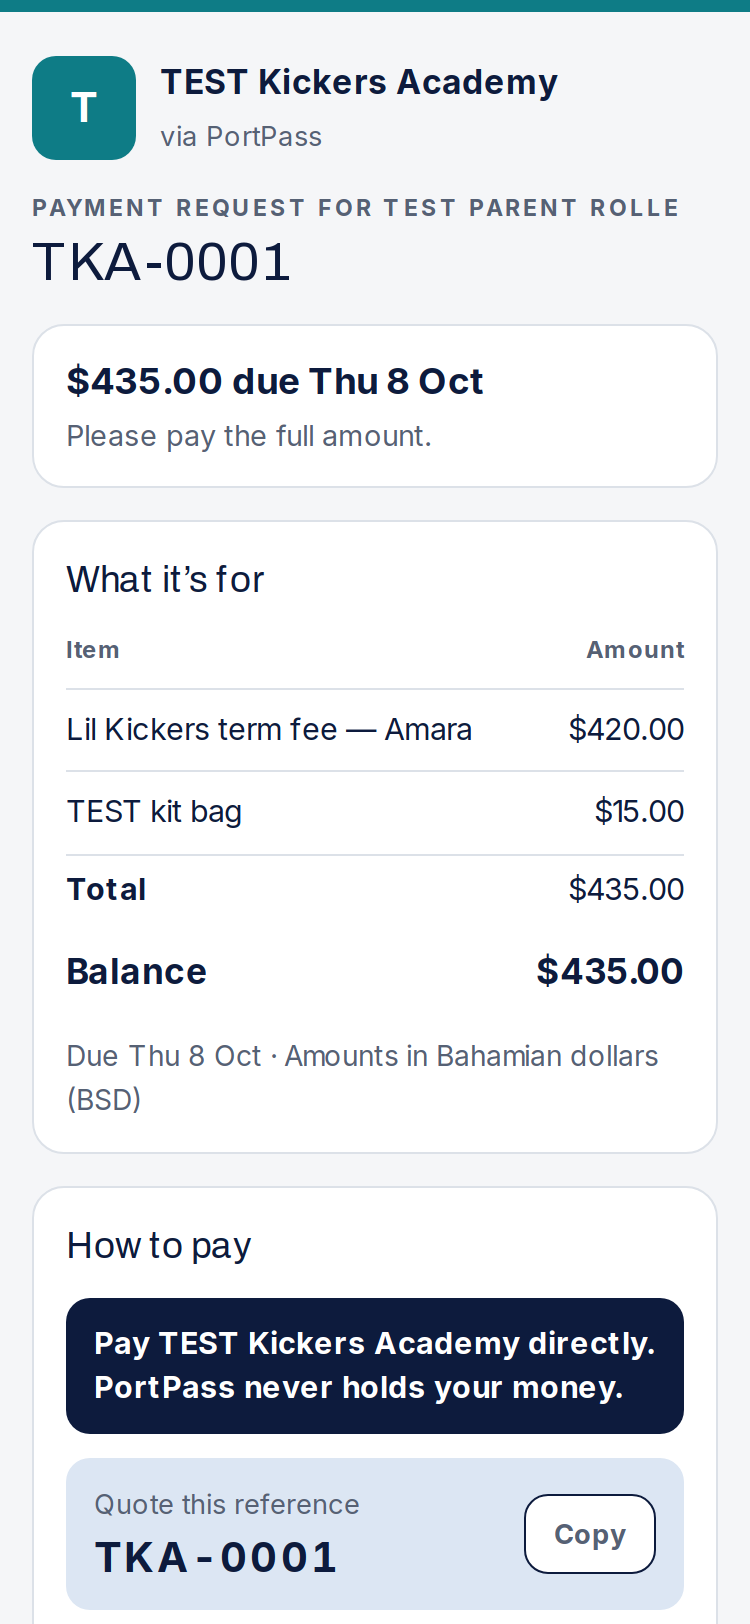
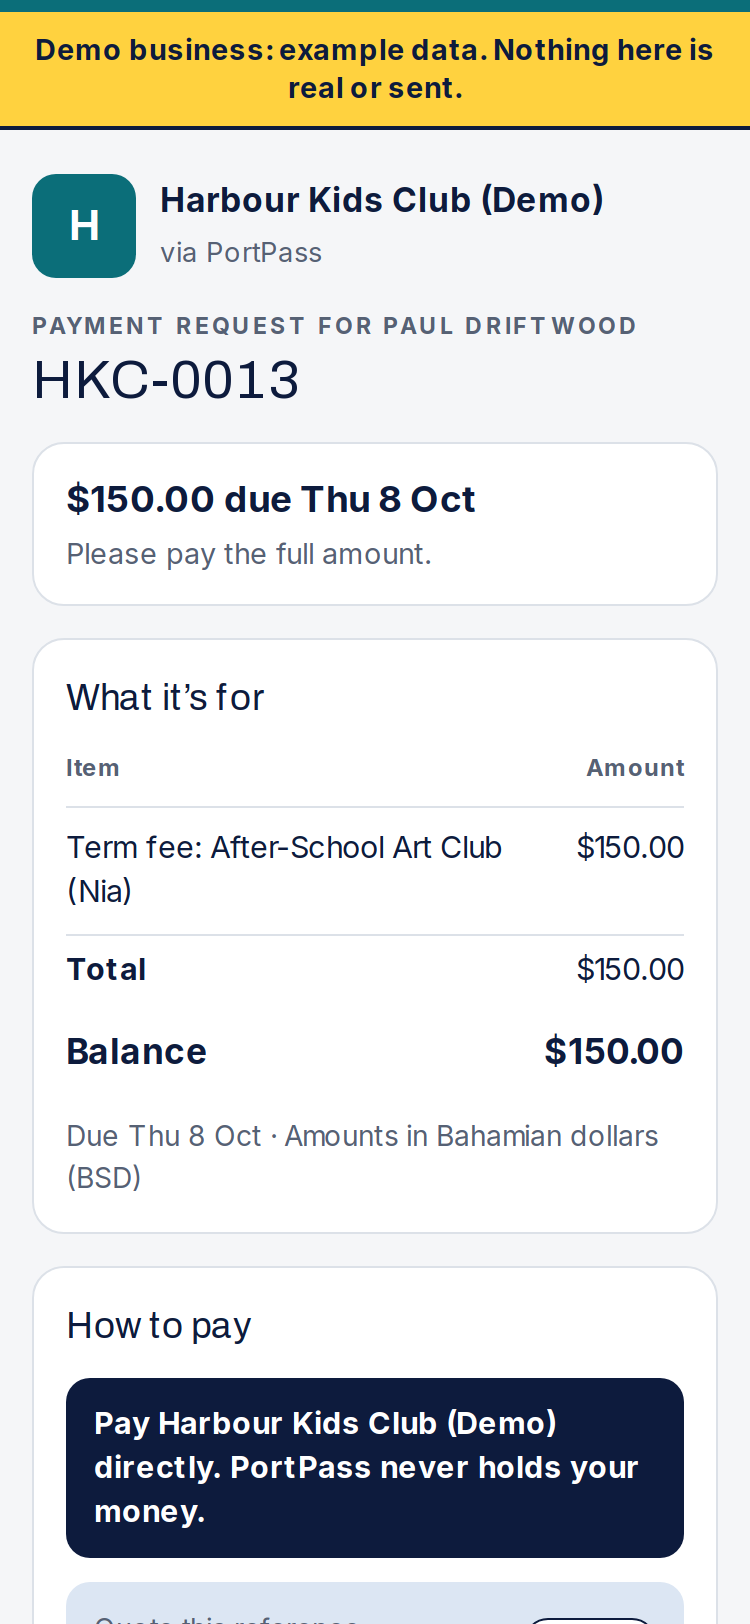
Demo polish: numbered steps, no phone links for invented people; /business product shots from the demo; screenshots name what keeps a page from settling

diff --git a/app/_components/payments/RequestDetail.tsx b/app/_components/payments/RequestDetail.tsx
@@ -181,7 +181,7 @@ export function RequestDetail({ request: r, payments, businessName, basePath, ap
           {r.status !== "void" && <div><dt>Balance</dt><dd>{money(balance)}</dd></div>}
           <div><dt>Due</dt><dd>{formatDay(r.dueDate, today)}{isOverdue(r, today) ? ` · ${daysOverdue(r.dueDate, today)} days overdue` : ""}</dd></div>
           <div><dt>They can pay by</dt><dd>{r.methods.map(methodLabel).join(", ")}{r.allowPartPayment ? " · part payments allowed" : ""}</dd></div>
-          {r.customerPhone && <div><dt>Phone</dt><dd><a className="preq-link" href={`tel:${r.customerPhone}`}>{formatPhoneDisplay(r.customerPhone)}</a></dd></div>}
+          {r.customerPhone && <div><dt>Phone</dt><dd>{demo ? formatPhoneDisplay(r.customerPhone) : <a className="preq-link" href={`tel:${r.customerPhone}`}>{formatPhoneDisplay(r.customerPhone)}</a>}</dd></div>}
           {r.customerEmail && <div><dt>Email</dt><dd>{r.customerEmail}</dd></div>}
           <div><dt>Sent</dt><dd>{r.sentAt ? `${formatDay(nassauDate(r.sentAt), today)} by ${sentViaLabel(r.sentVia)}` : "Not yet"}</dd></div>
           {r.lastRemindedAt && <div><dt>Last reminded</dt><dd>{sinceLabel(r.lastRemindedAt)} ({r.reminderCount})</dd></div>}
@@ -379,7 +379,7 @@ export function RequestDetail({ request: r, payments, businessName, basePath, ap
         </details>
       )}
       {!canVoidRequest(r) && r.status !== "void" && (
-        <p className="preq-last">Money has been recorded against this request, so it can&rsquo;t be voided. Record a refund on the payment instead.</p>
+        <p className="preq-last">Money has been recorded against this request, so it can&rsquo;t be voided.{demo ? "" : " Record a refund on the payment instead."}</p>
       )}
     </>
   );

diff --git a/app/demo/demo.css b/app/demo/demo.css
@@ -5,7 +5,7 @@
 .demo-inside{display:grid;gap:10px;list-style:none;margin:18px 0 0;padding:0}
 .demo-inside li{border:1px solid var(--line);border-radius:14px;display:grid;gap:3px;padding:12px 14px}
 .demo-inside li span{color:var(--muted);font-size:.9rem;line-height:1.45}
-.demo-try{display:grid;gap:8px;margin:14px 0 0;padding-left:20px}
+.demo-try{display:grid;gap:8px;list-style:decimal;margin:14px 0 0;padding-left:22px}
 .demo-try li{line-height:1.5}
 .demo-reset{align-items:center;border:1px dashed var(--line);border-radius:14px;display:flex;flex-wrap:wrap;gap:10px 16px;margin-top:22px;padding:14px 16px}
 .demo-reset p{flex:1 1 220px;font-size:.9rem;margin:0}
